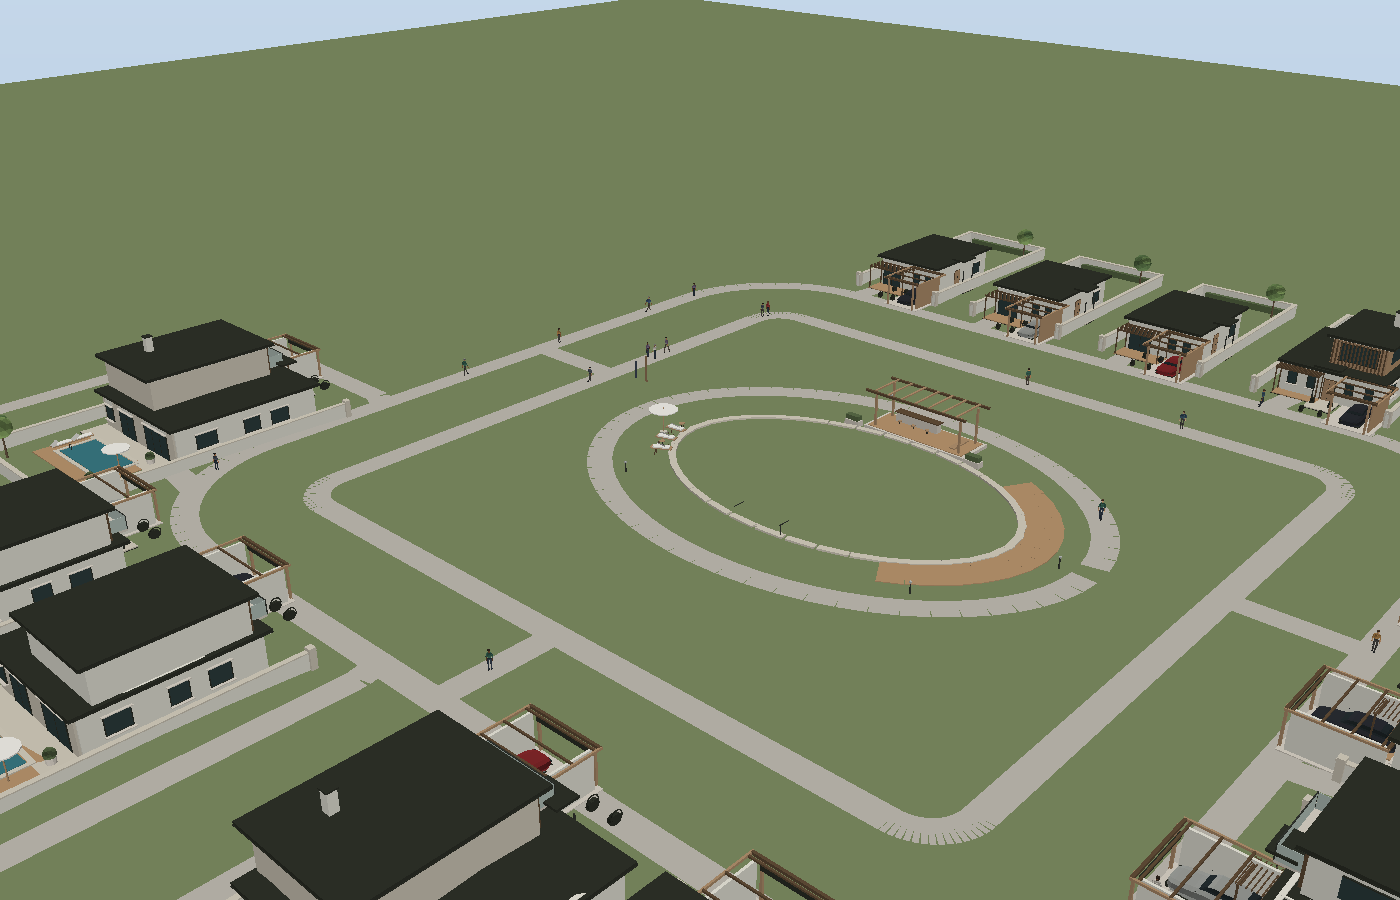
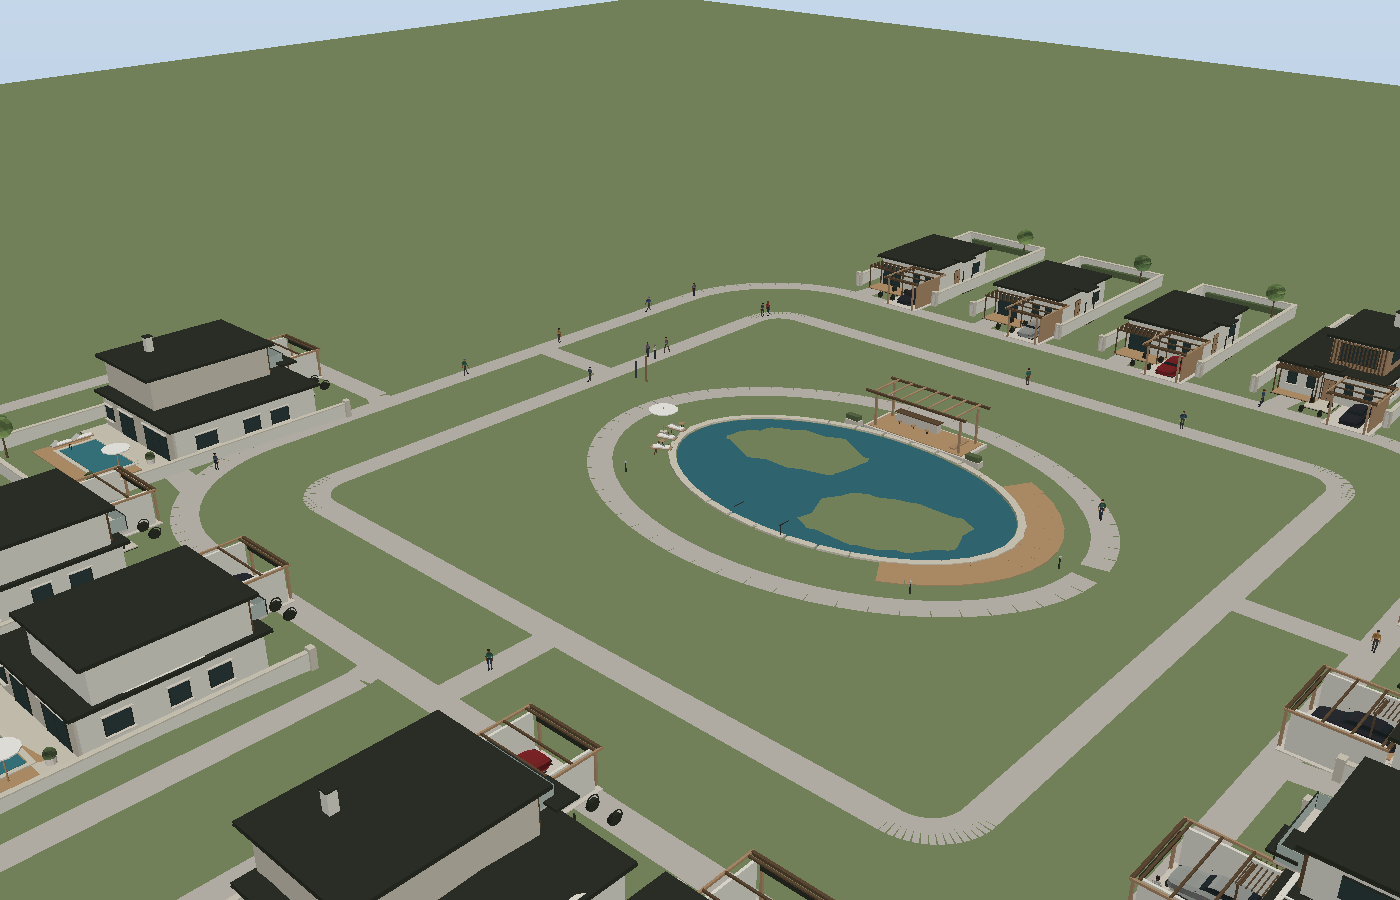
Evidência: vistas CPU com casas, lotes e piscina; documento de prontidão do produto

Changed region(s): [[0.4607, 0.4667, 0.7371, 0.6222]]

diff --git a/scripts/render-residents.ts b/scripts/render-residents.ts
@@ -23,6 +23,7 @@ import { getFloorPlan } from "../src/lib/domain/floorplans";
 import { HOUSE_CONFIG, buildHouseGeometry, type HouseGeometrySet } from "../src/components/three/house-geometry";
 import { buildPlotGeometries } from "../src/components/three/site/plot-geometry";
 import { buildLagoonGeometries } from "../src/components/three/site/lagoon-geometry";
+import { LAGOON_WATER } from "../src/lib/3d/lagoon";
 import { garagePlan, plotRearDepth, plotWallsFor, poolFor } from "../src/lib/3d/site";
 import {
   RESIDENTS,
@@ -392,10 +393,43 @@ function drawPlots(frame: Frame): void {
   }
 }
 
-/** The pool, deck and pavilion at the middle of the condominium. */
+/**
+ * The pool, deck and pavilion at the middle of the condominium.
+ *
+ * The water itself is a separate mesh in `Lagoon.tsx` (a scaled circle), not
+ * part of the merged set, so it is drawn here as an ellipse — otherwise the
+ * central garden reads as a green hole.
+ */
 function drawLagoon(frame: Frame): void {
   const { geometries } = buildLagoonGeometries({ lowQuality: true });
+  // The merged set is in the lagoon's local frame (the scene wraps it in a group
+  // at SITE.lagoon), so it is placed the same way here.
   drawSet(frame, geometries, PLOT_COLOURS, [0.7, 0.72, 0.7], SITE.lagoon.x, SITE.lagoon.z, 0);
+}
+
+/**
+ * The water surface, drawn last.
+ *
+ * The real material is transparent and the pool has a lighter shelf under the
+ * rim that shows through it; this rasteriser has no alpha, so the shelf reads as
+ * pale patches inside the water. That is a limitation of the offline render, not
+ * of the scene.
+ */
+function drawWater(frame: Frame): void {
+  const { x, z, radiusX, radiusZ } = SITE.lagoon;
+  const segments = 48;
+  const water: Vec3 = [0.16, 0.38, 0.42];
+  for (let i = 0; i < segments; i += 1) {
+    const a0 = (i / segments) * Math.PI * 2;
+    const a1 = ((i + 1) / segments) * Math.PI * 2;
+    triangle(
+      frame,
+      [x, LAGOON_WATER.y + 0.03, z],
+      [x + Math.cos(a1) * radiusX, LAGOON_WATER.y + 0.03, z + Math.sin(a1) * radiusZ],
+      [x + Math.cos(a0) * radiusX, LAGOON_WATER.y + 0.03, z + Math.sin(a0) * radiusZ],
+      water,
+    );
+  }
 }
 
 function drawResidents(frame: Frame, only?: typeof sim.residents): void {
@@ -554,6 +588,7 @@ drawPlots(overview);
 drawHouses(overview);
 drawScaleReferences(overview);
 drawResidents(overview);
+drawWater(overview);
 writePng("docs/residents-overview.png", overview);
 
 // 1b. A three-quarter view over the houses and the people together: the same
@@ -570,6 +605,7 @@ drawLagoon(quarter);
 drawPlots(quarter);
 drawHouses(quarter);
 drawResidents(quarter);
+drawWater(quarter);
 writePng("docs/site-three-quarter.png", quarter);
 
 // 1c. One residence and its plot, close enough to judge walls, carport, pool,

diff --git a/docs/PRODUCT-READINESS.md b/docs/PRODUCT-READINESS.md
@@ -66,6 +66,7 @@ npm run build                                # produção
 | Orçamento: 213 draw calls nos lotes, 49 608 triângulos, 54 árvores, 307 flores | **A** | `audit:3d` |
 | Um caminho pedonal atravessa o lote H13 (`path/ring-outer`) | **C** | achado **médio** pré-existente, não corrigido em silêncio |
 | Casas com telhado, beiral, rufo, peitoril e embasamento coerentes | **B** | `docs/houses-before-after-three-quarter.png`, `docs/site-house.png` |
+| Conjunto implantação + lotes + piscina + pessoas numa só vista | **B** | `docs/residents-overview.png`, `docs/site-three-quarter.png` (rasterizador CPU, geometria real) |
 | Cena WebGL no ecrã (sombras, materiais, exposição) | **E** | sem GPU no ambiente |
 
 ## 4. População e vida autónoma
@@ -110,7 +111,18 @@ npm run build                                # produção
    `rotationY` em graus (as casas convertem); os habitantes recebiam o valor
    cru. Corrigido no componente e nos scripts.
 
-## 8. Problemas conhecidos e não resolvidos
+## 8. Nota sobre as imagens
+
+As vistas de conjunto (`residents-overview.png`, `site-three-quarter.png`,
+`site-house.png`) são geradas por `scripts/render-residents.ts`, que agora
+desenha **a geometria real** das casas (`buildHouseGeometry`), dos lotes
+(`buildPlotGeometries`) e da piscina central (`buildLagoonGeometries`), com os
+habitantes por cima. O rasterizador não tem transparência nem sombras: a água é
+opaca, pelo que o fundo mais claro da piscina aparece como manchas pálidas — no
+produto o material é transparente. Isto é uma limitação da prova offline, não um
+defeito da cena.
+
+## 9. Problemas conhecidos e não resolvidos
 
 - `path/ring-outer` atravessa o lote H13 — achado médio do `audit:3d`.
 - Trânsito automóvel em movimento: **não implementado** (os carros estão
